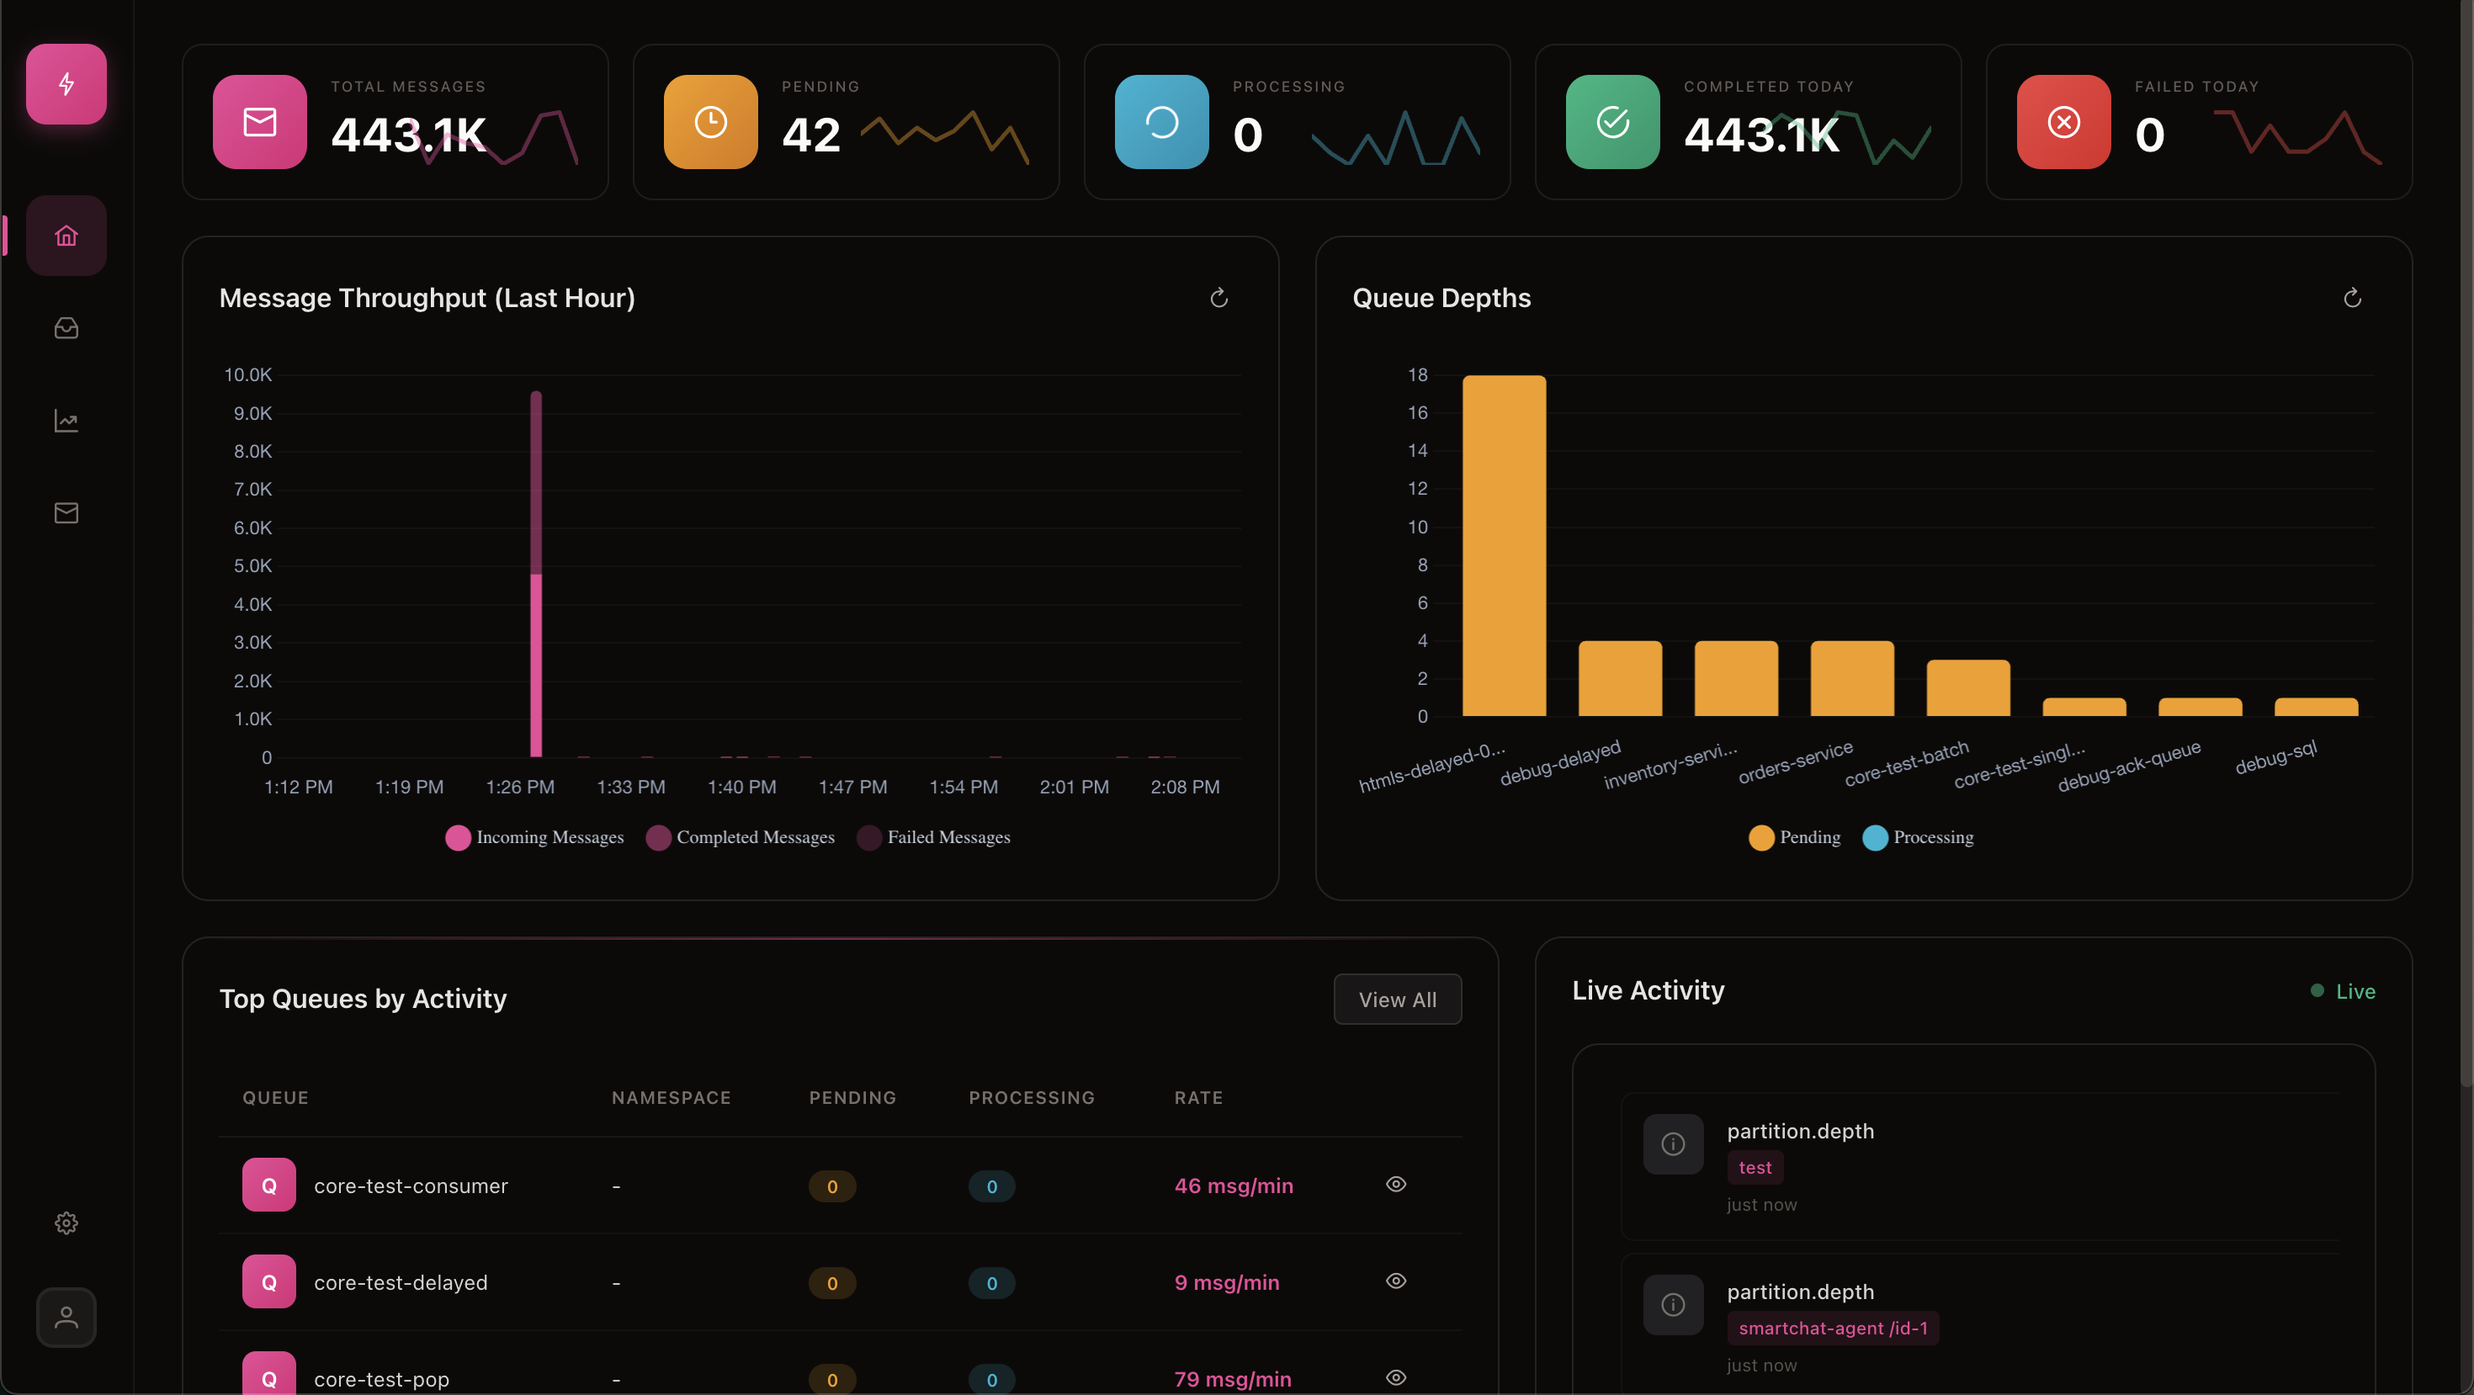
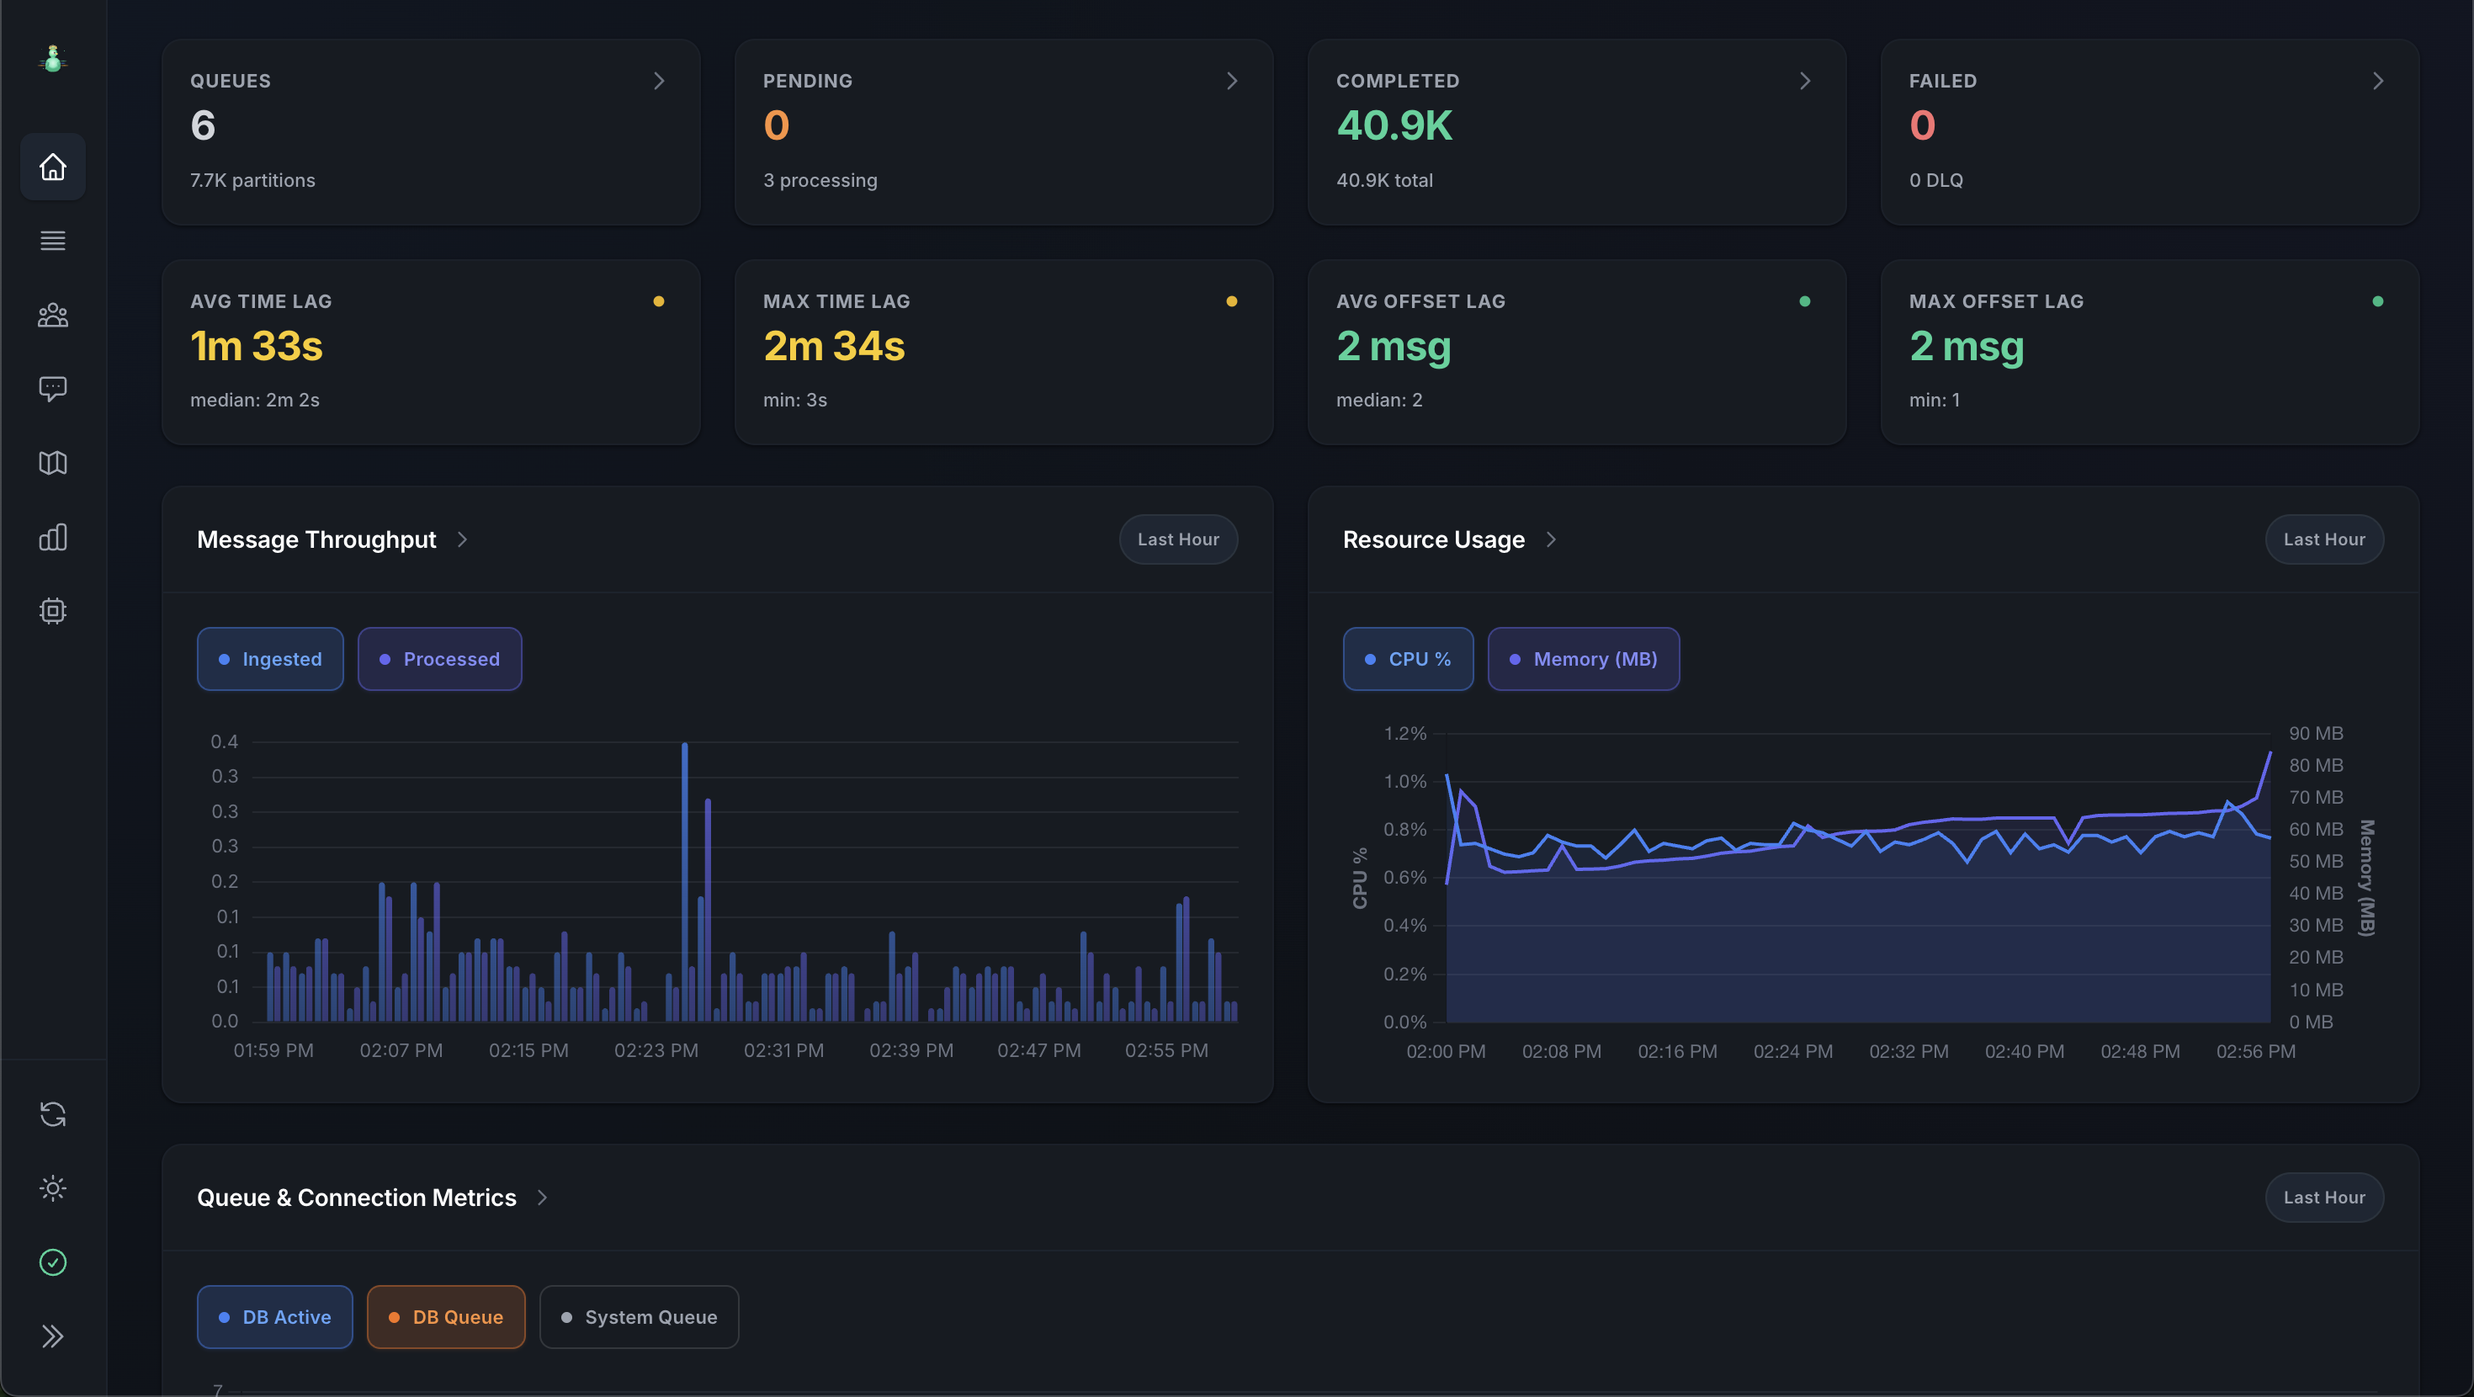
0.3.2 lag on dashboard

diff --git a/webapp/src/views/Dashboard.vue b/webapp/src/views/Dashboard.vue
@@ -58,6 +58,62 @@
             <div class="metric-value text-red-600 dark:text-red-400">{{ formatNumber(overview?.messages?.failed || 0) }}</div>
             <div class="metric-subtext-bottom">{{ formatNumber(overview?.messages?.deadLetter || 0) }} DLQ</div>
           </div>
+
+          <!-- Average Time Lag Card -->
+          <div class="metric-card-top">
+            <div class="flex items-center justify-between mb-0.5">
+              <span class="metric-label">AVG TIME LAG</span>
+              <div :class="getLagStatusClass(overview?.lag?.time?.avg)">
+                <svg class="w-4 h-4" fill="currentColor" viewBox="0 0 20 20">
+                  <circle cx="10" cy="10" r="4"/>
+                </svg>
+              </div>
+            </div>
+            <div :class="getLagValueClass(overview?.lag?.time?.avg)">{{ formatDuration(overview?.lag?.time?.avg || 0) }}</div>
+            <div class="metric-subtext-bottom">median: {{ formatDuration(overview?.lag?.time?.median || 0) }}</div>
+          </div>
+
+          <!-- Max Time Lag Card -->
+          <div class="metric-card-top">
+            <div class="flex items-center justify-between mb-0.5">
+              <span class="metric-label">MAX TIME LAG</span>
+              <div :class="getLagStatusClass(overview?.lag?.time?.max)">
+                <svg class="w-4 h-4" fill="currentColor" viewBox="0 0 20 20">
+                  <circle cx="10" cy="10" r="4"/>
+                </svg>
+              </div>
+            </div>
+            <div :class="getLagValueClass(overview?.lag?.time?.max)">{{ formatDuration(overview?.lag?.time?.max || 0) }}</div>
+            <div class="metric-subtext-bottom">min: {{ formatDuration(overview?.lag?.time?.min || 0) }}</div>
+          </div>
+
+          <!-- Average Offset Lag Card -->
+          <div class="metric-card-top">
+            <div class="flex items-center justify-between mb-0.5">
+              <span class="metric-label">AVG OFFSET LAG</span>
+              <div :class="getOffsetLagStatusClass(overview?.lag?.offset?.avg)">
+                <svg class="w-4 h-4" fill="currentColor" viewBox="0 0 20 20">
+                  <circle cx="10" cy="10" r="4"/>
+                </svg>
+              </div>
+            </div>
+            <div :class="getOffsetLagValueClass(overview?.lag?.offset?.avg)">{{ formatNumber(overview?.lag?.offset?.avg || 0) }} msg</div>
+            <div class="metric-subtext-bottom">median: {{ formatNumber(overview?.lag?.offset?.median || 0) }}</div>
+          </div>
+
+          <!-- Max Offset Lag Card -->
+          <div class="metric-card-top">
+            <div class="flex items-center justify-between mb-0.5">
+              <span class="metric-label">MAX OFFSET LAG</span>
+              <div :class="getOffsetLagStatusClass(overview?.lag?.offset?.max)">
+                <svg class="w-4 h-4" fill="currentColor" viewBox="0 0 20 20">
+                  <circle cx="10" cy="10" r="4"/>
+                </svg>
+              </div>
+            </div>
+            <div :class="getOffsetLagValueClass(overview?.lag?.offset?.max)">{{ formatNumber(overview?.lag?.offset?.max || 0) }} msg</div>
+            <div class="metric-subtext-bottom">min: {{ formatNumber(overview?.lag?.offset?.min || 0) }}</div>
+          </div>
         </div>
 
         <!-- Charts Grid -->
@@ -164,6 +220,58 @@ const calculatedPending = computed(() => {
   
   return Math.max(0, pending); // Ensure non-negative
 });
+
+// Format duration in seconds to human-readable string
+function formatDuration(seconds) {
+  if (!seconds || seconds === 0) return '0s';
+  
+  if (seconds < 60) return `${seconds}s`;
+  if (seconds < 3600) {
+    const mins = Math.floor(seconds / 60);
+    const secs = seconds % 60;
+    return secs > 0 ? `${mins}m ${secs}s` : `${mins}m`;
+  }
+  if (seconds < 86400) {
+    const hours = Math.floor(seconds / 3600);
+    const mins = Math.floor((seconds % 3600) / 60);
+    return mins > 0 ? `${hours}h ${mins}m` : `${hours}h`;
+  }
+  const days = Math.floor(seconds / 86400);
+  const hours = Math.floor((seconds % 86400) / 3600);
+  return hours > 0 ? `${days}d ${hours}h` : `${days}d`;
+}
+
+// Get lag status indicator class (time-based)
+function getLagStatusClass(seconds) {
+  if (!seconds || seconds === 0) return 'text-gray-400 dark:text-gray-500';
+  if (seconds < 60) return 'text-emerald-500'; // < 1 min: green
+  if (seconds < 300) return 'text-yellow-500'; // 1-5 min: yellow
+  return 'text-red-500'; // > 5 min: red
+}
+
+// Get lag value class (time-based)
+function getLagValueClass(seconds) {
+  if (!seconds || seconds === 0) return 'metric-value text-gray-600 dark:text-gray-300';
+  if (seconds < 60) return 'metric-value text-emerald-600 dark:text-emerald-400';
+  if (seconds < 300) return 'metric-value text-yellow-600 dark:text-yellow-400';
+  return 'metric-value text-red-600 dark:text-red-400';
+}
+
+// Get offset lag status indicator class
+function getOffsetLagStatusClass(count) {
+  if (!count || count === 0) return 'text-gray-400 dark:text-gray-500';
+  if (count < 10) return 'text-emerald-500'; // < 10 msgs: green
+  if (count < 50) return 'text-yellow-500'; // 10-50 msgs: yellow
+  return 'text-red-500'; // > 50 msgs: red
+}
+
+// Get offset lag value class
+function getOffsetLagValueClass(count) {
+  if (!count || count === 0) return 'metric-value text-gray-600 dark:text-gray-300';
+  if (count < 10) return 'metric-value text-emerald-600 dark:text-emerald-400';
+  if (count < 50) return 'metric-value text-yellow-600 dark:text-yellow-400';
+  return 'metric-value text-red-600 dark:text-red-400';
+}
 
 async function loadData() {
   loading.value = true;

diff --git a/webapp/src/components/layout/AppSidebar.vue b/webapp/src/components/layout/AppSidebar.vue
@@ -6,7 +6,7 @@
         v-if="!isCollapsed" 
         class="flex items-center gap-3"
       >
-        <img src="/assets/queen-logo-rose.svg" alt="Queen" class="h-8 w-8 flex-shrink-0" />
+        <img src="/assets/queen-logo.svg" alt="Queen" class="h-8 w-8 flex-shrink-0" />
         <div class="min-w-0">
           <h1 class="text-sm font-bold text-gray-900 dark:text-white truncate tracking-tight">Queen</h1>
           <p class="text-xs text-gray-500 dark:text-gray-400 truncate">Message Queue</p>
@@ -16,7 +16,7 @@
         v-else 
         class="flex items-center justify-center"
       >
-        <img src="/assets/queen-logo-rose.svg" alt="Queen" class="h-8 w-8" />
+        <img src="/assets/queen-logo.svg" alt="Queen" class="h-8 w-8" />
       </div>
     </div>
     

diff --git a/server/src/managers/analyticsManager.cpp b/server/src/managers/analyticsManager.cpp
@@ -511,6 +511,34 @@ nlohmann::json AnalyticsManager::get_system_overview() {
                 FROM queen.messages m
                 LEFT JOIN queen.partition_consumers pc ON pc.partition_id = m.partition_id
                 LEFT JOIN queen.dead_letter_queue dlq ON dlq.message_id = m.id
+            ),
+            unconsumed_time_lags AS (
+                SELECT
+                    EXTRACT(EPOCH FROM (NOW() - m.created_at))::integer as lag_seconds
+                FROM queen.messages m
+                LEFT JOIN queen.partition_consumers pc ON pc.partition_id = m.partition_id
+                LEFT JOIN queen.dead_letter_queue dlq ON dlq.message_id = m.id
+                WHERE dlq.message_id IS NULL
+                  AND (pc.last_consumed_created_at IS NULL 
+                       OR m.created_at > pc.last_consumed_created_at
+                       OR (DATE_TRUNC('milliseconds', m.created_at) = DATE_TRUNC('milliseconds', pc.last_consumed_created_at) 
+                           AND m.id > pc.last_consumed_id))
+            ),
+            partition_offset_lags AS (
+                SELECT
+                    p.id as partition_id,
+                    COUNT(DISTINCT m.id) as unconsumed_count
+                FROM queen.partitions p
+                LEFT JOIN queen.messages m ON m.partition_id = p.id
+                LEFT JOIN queen.partition_consumers pc ON pc.partition_id = p.id
+                LEFT JOIN queen.dead_letter_queue dlq ON dlq.message_id = m.id
+                WHERE dlq.message_id IS NULL
+                  AND (pc.last_consumed_created_at IS NULL 
+                       OR m.created_at > pc.last_consumed_created_at
+                       OR (DATE_TRUNC('milliseconds', m.created_at) = DATE_TRUNC('milliseconds', pc.last_consumed_created_at) 
+                           AND m.id > pc.last_consumed_id))
+                GROUP BY p.id
+                HAVING COUNT(DISTINCT m.id) > 0
             )
             SELECT
                 (SELECT COUNT(*) FROM queen.queues) as total_queues,
@@ -521,7 +549,17 @@ nlohmann::json AnalyticsManager::get_system_overview() {
                 GREATEST(0, ms.unconsumed_messages - ms.processing_messages) as pending_messages,
                 ms.processing_messages,
                 ms.completed_messages,
-                ms.dead_letter_messages
+                ms.dead_letter_messages,
+                -- Time-based lag metrics
+                COALESCE((SELECT AVG(lag_seconds)::integer FROM unconsumed_time_lags), 0) as avg_time_lag_seconds,
+                COALESCE((SELECT PERCENTILE_CONT(0.5) WITHIN GROUP (ORDER BY lag_seconds)::integer FROM unconsumed_time_lags), 0) as median_time_lag_seconds,
+                COALESCE((SELECT MIN(lag_seconds)::integer FROM unconsumed_time_lags), 0) as min_time_lag_seconds,
+                COALESCE((SELECT MAX(lag_seconds)::integer FROM unconsumed_time_lags), 0) as max_time_lag_seconds,
+                -- Offset-based lag metrics (per partition)
+                COALESCE((SELECT AVG(unconsumed_count)::integer FROM partition_offset_lags), 0) as avg_offset_lag,
+                COALESCE((SELECT PERCENTILE_CONT(0.5) WITHIN GROUP (ORDER BY unconsumed_count)::integer FROM partition_offset_lags), 0) as median_offset_lag,
+                COALESCE((SELECT MIN(unconsumed_count)::integer FROM partition_offset_lags), 0) as min_offset_lag,
+                COALESCE((SELECT MAX(unconsumed_count)::integer FROM partition_offset_lags), 0) as max_offset_lag
             FROM message_stats ms
         )";
         
@@ -544,6 +582,20 @@ nlohmann::json AnalyticsManager::get_system_overview() {
                 {"completed", safe_stoi(result.get_value(0, "completed_messages"))},
                 {"failed", 0},
                 {"deadLetter", safe_stoi(result.get_value(0, "dead_letter_messages"))}
+            }},
+            {"lag", {
+                {"time", {
+                    {"avg", safe_stoi(result.get_value(0, "avg_time_lag_seconds"))},
+                    {"median", safe_stoi(result.get_value(0, "median_time_lag_seconds"))},
+                    {"min", safe_stoi(result.get_value(0, "min_time_lag_seconds"))},
+                    {"max", safe_stoi(result.get_value(0, "max_time_lag_seconds"))}
+                }},
+                {"offset", {
+                    {"avg", safe_stoi(result.get_value(0, "avg_offset_lag"))},
+                    {"median", safe_stoi(result.get_value(0, "median_offset_lag"))},
+                    {"min", safe_stoi(result.get_value(0, "min_offset_lag"))},
+                    {"max", safe_stoi(result.get_value(0, "max_offset_lag"))}
+                }}
             }},
             {"timestamp", ss.str()}
         };

diff --git a/README.md b/README.md
@@ -116,35 +116,34 @@ await queen
 })
 ```
 
-**Key Features:**
-- ✅ Fluent, chainable API
-- ✅ Auto-acknowledgment (or manual control)
-- ✅ Partitions for ordered processing
-- ✅ Consumer groups for scaling
-- ✅ **Subscription modes (new messages only or from timestamp)**
-- ✅ Transactions for atomicity
-- ✅ Client-side buffering for speed
-- ✅ Dead letter queue for failures
-- ✅ Lease renewal for long tasks
-- ✅ **Message tracing for debugging workflows**
-- ✅ Graceful shutdown with buffer flush
+## Webapp
 
-## 📚 Examples
+A modern Vue 3 web interface for managing and monitoring Queen MQ.
 
-### Client
+![Queen MQ Dashboard](./assets/dashboard.png)
 
-See the **[Complete V2 Guide](client-js/client-v2/README.md)** with 14 parts covering everything from basics to advanced features:
-- Queue creation, push, and consume
-- Partitions and consumer groups
-- **Subscription modes (new messages, timestamps)**
-- Transactions and buffering
-- Dead letter queues
-- Lease renewal
-- Message tracing
-- Complete real-world pipeline example
-- And much more!
 
-**Test Files** (94 working examples): [client-js/test-v2/](client-js/test-v2/)
+**Features:**
+- 📊 Real-time dashboard with system metrics
+- 📈 Message throughput visualization
+- 🔍 Queue management and monitoring
+- 👥 Consumer group tracking
+- 💬 Message browser with trace timeline
+- 🔎 **Trace explorer for debugging distributed workflows**
+- 📉 Analytics and insights
+- 🌓 Dark/light theme support
+
+**Quick Start:**
+```bash
+cd webapp
+npm install
+npm run dev
+```
+
+The dashboard will be available at `http://localhost:4000` or at `http://localhost:6632` directly from the server.
+
+See [webapp/README.md](webapp/README.md) for more details.
+
 
 
 ## Architecture
@@ -195,30 +194,7 @@ Queen automatically buffers messages to disk when PostgreSQL is unavailable - **
 FILE_BUFFER_DIR=/custom/path ./bin/queen-server
 ```
 
-## Webapp
 
-A modern Vue 3 web interface for managing and monitoring Queen MQ.
-
-**Features:**
-- 📊 Real-time dashboard with system metrics
-- 📈 Message throughput visualization
-- 🔍 Queue management and monitoring
-- 👥 Consumer group tracking
-- 💬 Message browser with trace timeline
-- 🔎 **Trace explorer for debugging distributed workflows**
-- 📉 Analytics and insights
-- 🌓 Dark/light theme support
-
-**Quick Start:**
-```bash
-cd webapp
-npm install
-npm run dev
-```
-
-The dashboard will be available at `http://localhost:4000`
-
-See [webapp/README.md](webapp/README.md) for more details.
 
 ## Install server and configure it
 
